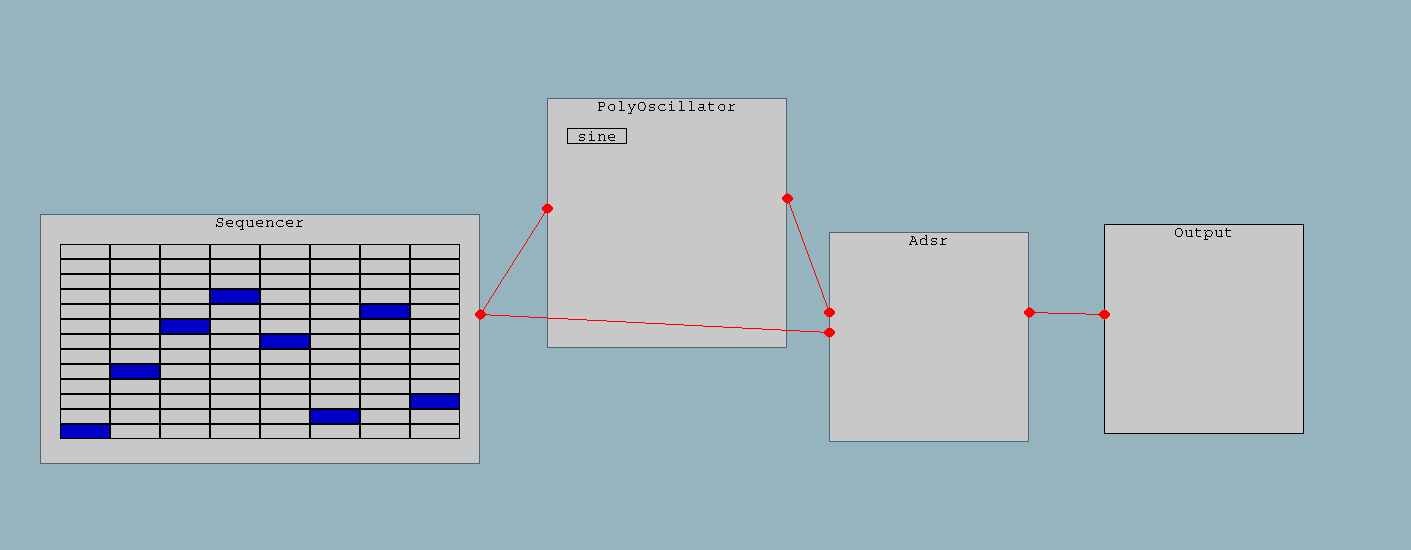
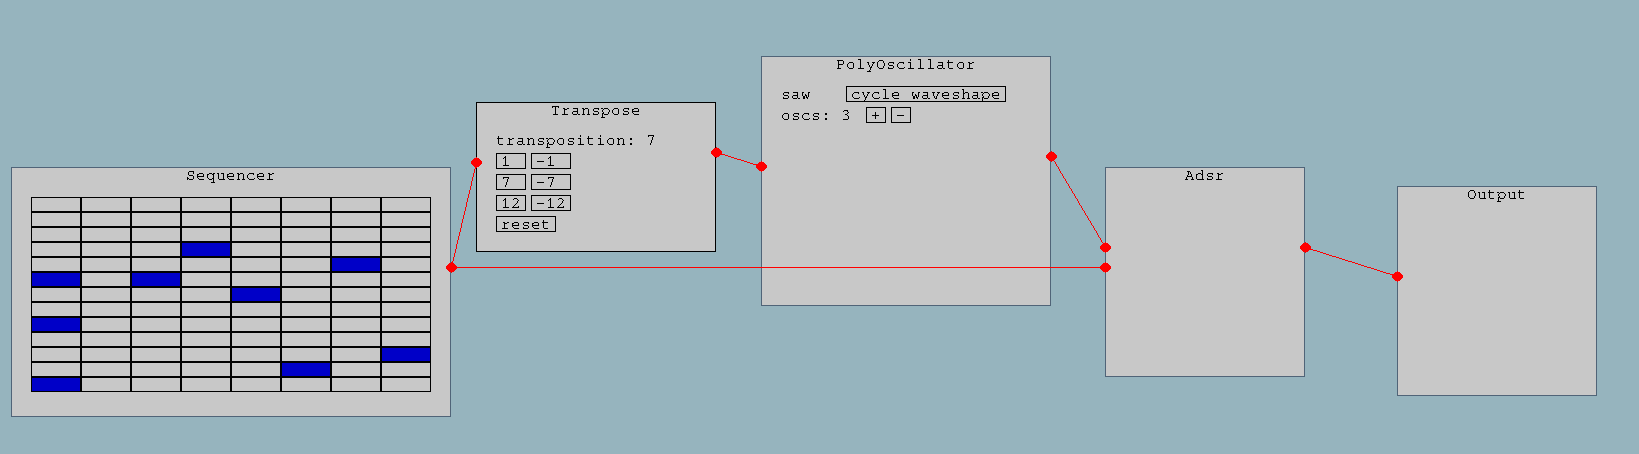
more buttons, labels, transpose

Changed region(s): [[0.0, 0.1233, 0.9979, 0.9251]]

diff --git a/src/ui_utils/context.rs b/src/ui_utils/context.rs
@@ -12,28 +12,56 @@ pub struct UiContext<'a> {
 }
 
 impl UiContext<'_> {
+    pub fn add_label(
+            &self,
+            canvas: &mut SurfaceCanvas,
+            layout: &mut super::SimpleLayoutBuilder,
+            text: &str,
+            width: Option<u32>) {
+
+        let width = if let Some(width) = width {
+            width
+        } else {
+            text.chars().count() as u32
+        };
+
+        let text = self.font.render(text).solid(Color::BLACK).unwrap();
+        let char_size = self.font.size_of_char('m').unwrap();
+        let rect = Rect::new(
+            0,
+            0,
+            char_size.0 * width,
+            char_size.1
+        );
+        let (_, rect) = layout.add_rect(rect);
+
+        text.blit(text.rect(), canvas.surface_mut(), rect).unwrap();
+    }
+
     pub fn add_button(
             &self,
             canvas: &mut SurfaceCanvas,
             layout: &mut super::SimpleLayoutBuilder,
-            interact: Option<ModuleInteractInfo>,
+            interact: &Option<ModuleInteractInfo>,
             text: &str,
             width: Option<u32>) -> bool {
 
-        let mut text = self.font.render(text).solid(Color::WHITE).unwrap();
-        let (rect, shift) = if let Some(width) = width {
-            let char_size = self.font.size_of_char('m').unwrap();
-            let rect = Rect::new(
-                0,
-                0,
-                char_size.0 * width,
-                char_size.1
-            );
-            (rect, ((rect.width() - text.rect().width()) / 2) as i32)
+        const MARGIN: u8 = 5;
+
+        let width = if let Some(width) = width {
+            width
         } else {
-            (text.rect(), 0)
+            text.chars().count() as u32
         };
 
+        let mut text = self.font.render(text).solid(Color::WHITE).unwrap();
+        let char_size = self.font.size_of_char('m').unwrap();
+        let rect = Rect::new(
+            0,
+            0,
+            char_size.0 * width + MARGIN as u32 * 2,
+            char_size.1
+        );
         let (hovered, rect) = layout.add_rect(rect);
 
         let (pressed, clicked) = if let Some(info) = interact {
@@ -50,16 +78,16 @@ impl UiContext<'_> {
 
         let color = if hovered {
             if pressed {
-                Color::WHITE
+                Color::RGB(140, 140, 140)
             } else {
-                Color::GRAY
+                Color::RGB(90, 90, 90)
             }
         } else {
             Color::BLACK
         };
 
         text.set_color_mod(color);
-        text.blit(rect.left_shifted(shift), canvas.surface_mut(), rect).unwrap();
+        text.blit(text.rect(), canvas.surface_mut(), rect.right_shifted(MARGIN.into())).unwrap();
         canvas.set_draw_color(color);
         canvas.draw_rect(rect).unwrap();
         hovered && clicked

diff --git a/src/modules/transpose.rs b/src/modules/transpose.rs
@@ -1,0 +1,85 @@
+use crate::*;
+
+macro_rules! add_btn {
+    ($self:ident, $ui:ident, $canvas:ident, $layout:ident, $interact:ident,
+        $amount:literal, $width:expr) => {
+
+        if $ui.add_button(&mut $canvas, &mut $layout, &$interact, stringify!($amount), Some($width)) {
+            $self.amount += $amount;
+        }
+    }
+}
+
+pub struct Transpose {
+    amount: i16,
+    notes: Box<[Note]>,
+}
+
+impl Transpose {
+    pub fn new() -> Self {
+        Self {
+            amount: 0,
+            notes: Box::new([]),
+        }
+    }
+}
+
+impl Module for Transpose {
+    fn tick(&mut self) -> Option<Data> {
+        let res = if !self.notes.is_empty() {
+            let res = Some(Data::Notes(self.notes.iter().map(|note| note.transpose(self.amount)).collect()));
+            self.notes = Box::new([]);
+            res
+        } else {
+            None
+        };
+        res
+    }
+
+    define_module! {
+        title: "Transpose",
+        output: Notes,
+        inputs: [(Notes, "notes")],
+    }
+
+    fn send(&mut self, _input: usize, data: Data) {
+        self.notes = data.notes();
+    }
+
+    fn draw(&mut self, ui: &UiContext, interact: Option<ModuleInteractInfo>)
+        -> Option<sdl2::surface::Surface<'_>> {
+
+        use sdl2::{
+            surface::Surface,
+            pixels::PixelFormatEnum,
+        };
+
+        let (width, height) = (200, 100);
+
+        let mut canvas =
+            Surface::new(width, height, PixelFormatEnum::RGBA32)
+            .unwrap().into_canvas().unwrap();
+
+        let mouse_pos = interact.as_ref().and_then(|info| Some((info.x, info.y)));
+        let mut layout = crate::ui_utils::SimpleLayoutBuilder::new((0, 0), mouse_pos);
+
+        ui.add_label(&mut canvas, &mut layout, &*format!("transposition: {}", self.amount), None);
+        layout.next_row();
+
+        add_btn!(self, ui, canvas, layout, interact, 1, 2);
+        add_btn!(self, ui, canvas, layout, interact, -1, 3);
+        layout.next_row();
+        add_btn!(self, ui, canvas, layout, interact, 7, 2);
+        add_btn!(self, ui, canvas, layout, interact, -7, 3);
+        layout.next_row();
+        add_btn!(self, ui, canvas, layout, interact, 12, 2);
+        add_btn!(self, ui, canvas, layout, interact, -12, 3);
+
+        layout.next_row();
+        if ui.add_button(&mut canvas, &mut layout, &interact, "reset", None) {
+            self.amount = 0;
+        }
+
+        Some(canvas.into_surface())
+    }
+}

diff --git a/src/modules/polyoscillator.rs b/src/modules/polyoscillator.rs
@@ -1,5 +1,4 @@
 use crate::*;
-use super::oscillator::Waveshape;
 
 pub struct PolyOscillator {
     oscillators: Vec<(Oscillator, bool)>,
@@ -12,10 +11,14 @@ impl PolyOscillator {
         }
     }
 
-    pub fn set_oscillators(&mut self, amount: usize) {
+    fn add_oscillator(&mut self, waveshape: Waveshape) {
+        self.oscillators.push((Oscillator::new(waveshape), false));
+    }
+
+    pub fn set_oscillators(&mut self, waveshape: Waveshape, amount: usize) {
         self.oscillators.clear();
         for _ in 0..amount {
-            self.oscillators.push((Oscillator::new(Waveshape::Sine), false));
+            self.add_oscillator(waveshape);
         }
     }
 
@@ -83,7 +86,7 @@ impl Module for PolyOscillator {
             pixels::PixelFormatEnum,
         };
 
-        let (width, height) = (200, 200);
+        let (width, height) = (250, 200);
 
         let mut canvas =
             Surface::new(width, height, PixelFormatEnum::RGBA32)
@@ -92,8 +95,21 @@ impl Module for PolyOscillator {
         let mouse_pos = interact.as_ref().and_then(|info| Some((info.x, info.y)));
         let mut layout = crate::ui_utils::SimpleLayoutBuilder::new((0, 0), mouse_pos);
 
-        if ui.add_button(&mut canvas, &mut layout, interact, self.current_waveshape().as_str(), Some(6)) {
+        ui.add_label(&mut canvas, &mut layout, self.current_waveshape().as_str(), Some(6));
+        if ui.add_button(&mut canvas, &mut layout, &interact, "cycle waveshape", None) {
             self.cycle_waveshape();
+        }
+
+        layout.next_row();
+
+        ui.add_label(&mut canvas, &mut layout, &*format!("oscs: {}", self.oscillators.len()), Some(8));
+        if ui.add_button(&mut canvas, &mut layout, &interact, "+", None) {
+            self.add_oscillator(self.current_waveshape());
+        }
+        if ui.add_button(&mut canvas, &mut layout, &interact, "-", None) {
+            if 1 < self.oscillators.len() {
+                self.oscillators.pop();
+            }
         }
 
         Some(canvas.into_surface())

diff --git a/src/ui_utils/layout.rs b/src/ui_utils/layout.rs
@@ -1,0 +1,55 @@
+use sdl2::rect::Rect;
+
+pub struct SimpleLayoutBuilder {
+    start_x: i32,
+    start_y: i32,
+    mouse: Option<(u16, u16)>,
+    max_height: i32,
+    x: i32,
+    y: i32,
+    column_spacing: i32,
+    row_spacing: i32,
+}
+
+impl SimpleLayoutBuilder {
+    pub fn new(start: (i32, i32), mouse: Option<(u16, u16)>) -> Self {
+        Self {
+            start_x: start.0,
+            start_y: start.1,
+            mouse,
+            max_height: 0,
+            x: 0,
+            y: 0,
+            column_spacing: 5,
+            row_spacing: 5,
+        }
+    }
+
+    pub fn add_rect(&mut self, rect: Rect) -> (bool, Rect) {
+        let width = rect.width() as i32;
+        let height = rect.height() as i32;
+
+        let x = self.start_x + self.x;
+        let y = self.start_y + self.y;
+
+        let hovered = if let Some((mx, my)) = self.mouse {
+            let (mx, my) = (mx as i32, my as i32);
+            x <= mx && mx < x + width && y <= my && my < y + height
+        } else {
+            false
+        };
+
+        let result = (hovered, Rect::new(x, y, rect.width(), rect.height()));
+
+        self.max_height = i32::max(self.max_height, height);
+        self.x += width + self.column_spacing;
+
+        result
+    }
+
+    pub fn next_row(&mut self) {
+        self.y += self.max_height + self.row_spacing;
+        self.max_height = 0;
+        self.x = 0;
+    }
+}

diff --git a/src/ui_utils.rs b/src/ui_utils.rs
@@ -1,54 +1,5 @@
 mod context;
 pub use context::UiContext;
 
-use sdl2::rect::Rect;
-
-pub struct SimpleLayoutBuilder {
-    start_x: i32,
-    start_y: i32,
-    mouse: Option<(u16, u16)>,
-    max_height: i32,
-    x: i32,
-    y: i32,
-}
-
-impl SimpleLayoutBuilder {
-    pub fn new(start: (i32, i32), mouse: Option<(u16, u16)>) -> Self {
-        Self {
-            start_x: start.0,
-            start_y: start.1,
-            mouse,
-            max_height: 0,
-            x: 0,
-            y: 0,
-        }
-    }
-
-    pub fn add_rect(&mut self, rect: Rect) -> (bool, Rect) {
-        let width = rect.width() as i32;
-        let height = rect.height() as i32;
-
-        let x = self.start_x + self.x;
-        let y = self.start_y + self.y;
-
-        let hovered = if let Some((mx, my)) = self.mouse {
-            let (mx, my) = (mx as i32, my as i32);
-            x <= mx && mx < x + width && y <= my && my < y + height
-        } else {
-            false
-        };
-
-        let result = (hovered, Rect::new(x, y, rect.width(), rect.height()));
-
-        self.max_height = i32::max(self.max_height, height);
-        self.x += width;
-
-        result
-    }
-
-    pub fn next_row(&mut self) {
-        self.y += self.max_height;
-        self.max_height = 0;
-        self.x = 0;
-    }
-}
+mod layout;
+pub use layout::SimpleLayoutBuilder;

diff --git a/src/main.rs b/src/main.rs
@@ -84,11 +84,12 @@ impl App {
 
     fn init(&mut self) {
         let mut osc = PolyOscillator::new();
-        osc.set_oscillators(3);
+        osc.set_oscillators(Waveshape::Sine, 3);
 
         self.insert_module(Box::new(osc));
         self.insert_module(Box::new(Sequencer::new()));
         self.insert_module(Box::new(Adsr::new()));
+        self.insert_module(Box::new(Transpose::new()));
     }
 
     fn module(&mut self, module: ModuleId) -> &mut Box<dyn Module + Send> {

diff --git a/src/lib.rs b/src/lib.rs
@@ -98,4 +98,12 @@ impl Note {
             Self::Freq(freq) => freq,
         }
     }
+
+    pub fn transpose(self, amount: i16) -> Self {
+        match self {
+            // TODO fix this math
+            Self::Midi(note) => Self::Midi((note as i16 + amount) as u8),
+            Self::Freq(freq) => Self::Freq(freq + amount.signum() as f32 * midi_to_freq(amount.abs() as u8)),
+        }
+    }
 }

diff --git a/src/modules.rs b/src/modules.rs
@@ -1,5 +1,5 @@
 mod oscillator;
-pub use oscillator::Oscillator;
+pub use oscillator::{Oscillator, Waveshape};
 
 mod polyoscillator;
 pub use polyoscillator::PolyOscillator;
@@ -12,3 +12,6 @@ pub use sequencer::Sequencer;
 
 mod mixer;
 pub use mixer::Mixer;
+
+mod transpose;
+pub use transpose::Transpose;
